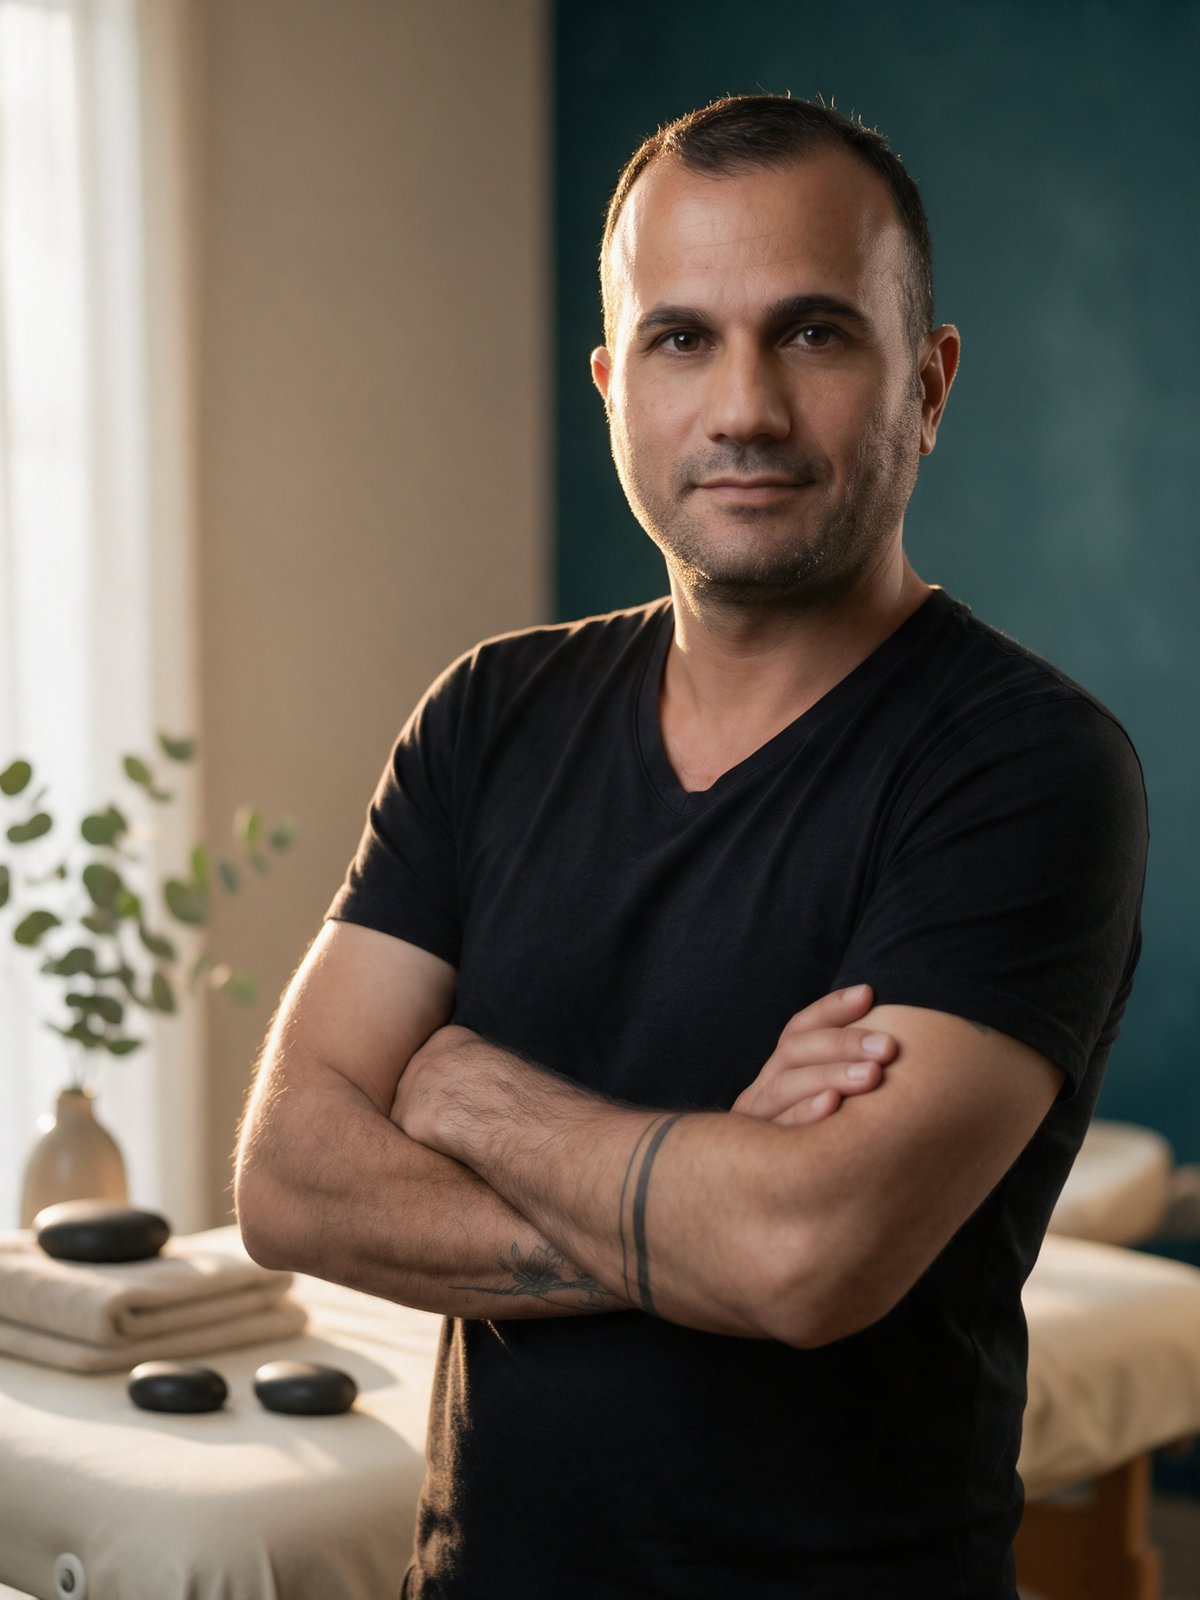
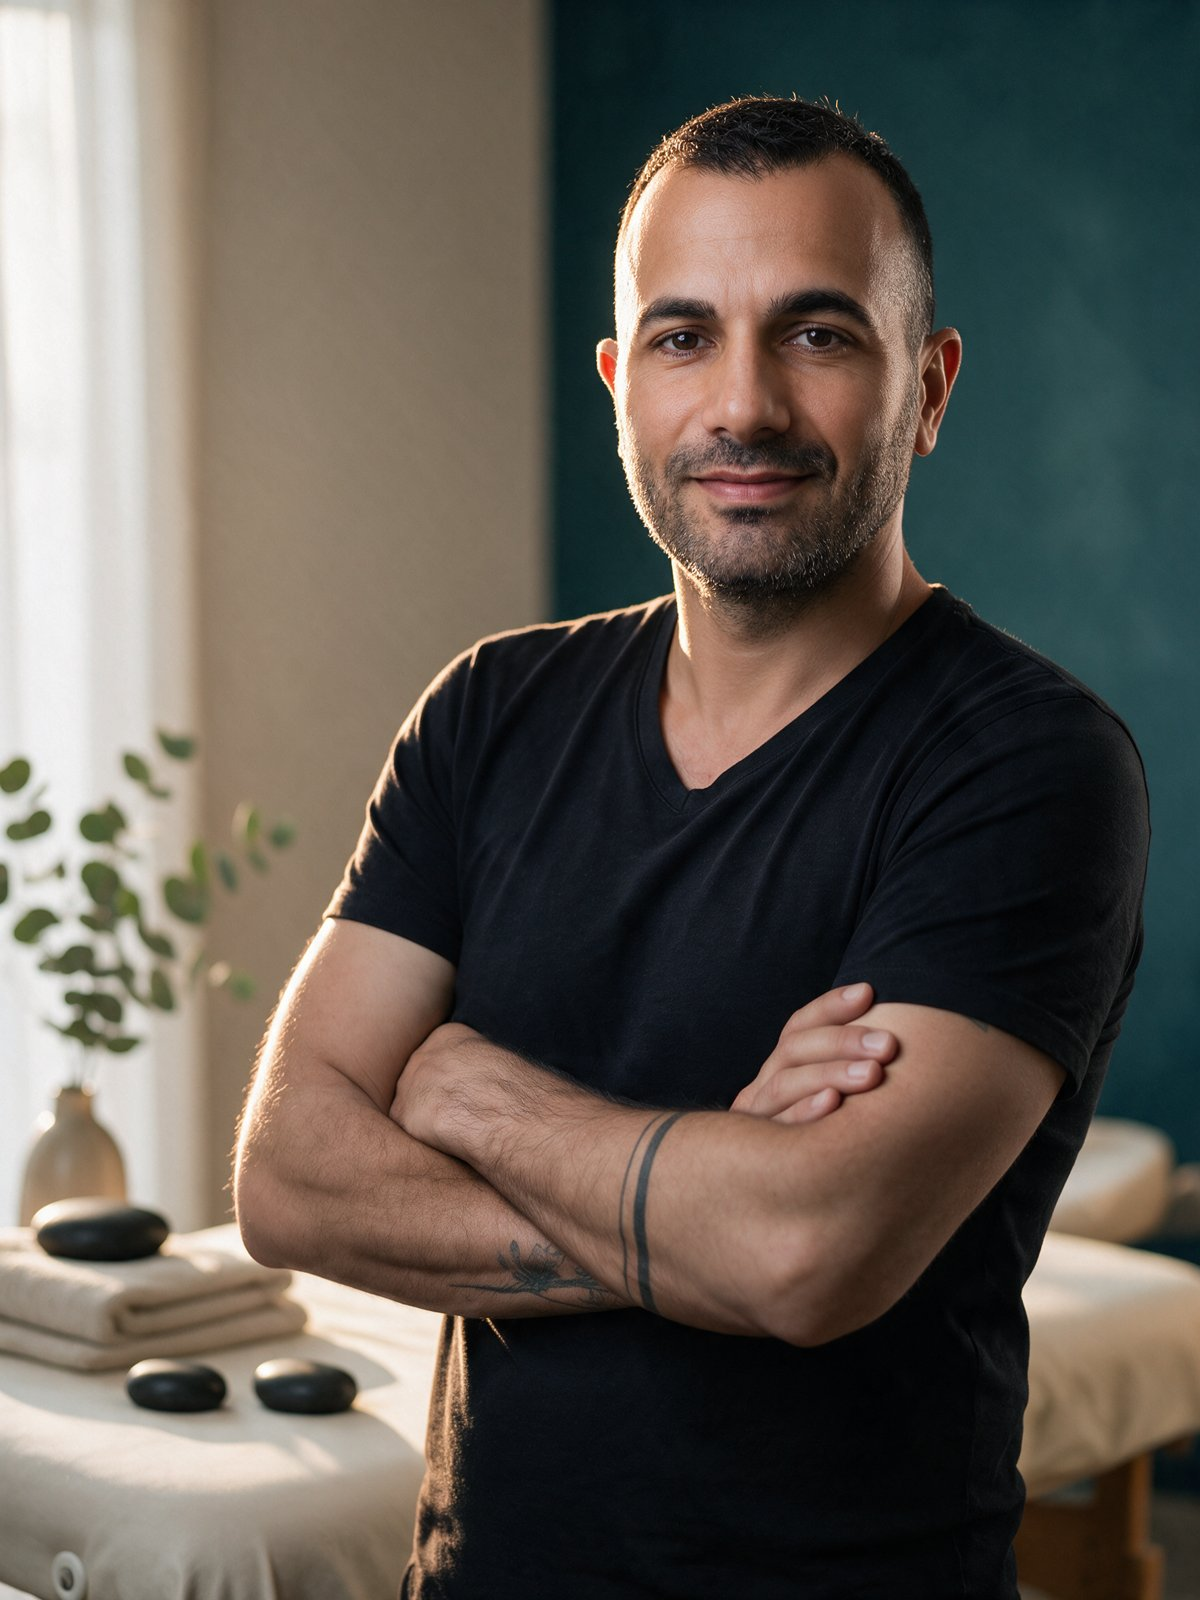
Updated portrait and social share image

diff --git a/index.html b/index.html
@@ -7,14 +7,19 @@
 <meta name="description" content="עיסוי רפואי מקצועי בירושלים עם דרור גל אמזלג, מעסה רפואי מוסמך עם למעלה מ-11 שנות ניסיון. כאבי גב וצוואר, שרירים תפוסים, מתח ושיקום. קביעת תור בוואטסאפ.">
 <meta property="og:title" content="דרור גל אמזלג — עיסוי רפואי בירושלים">
 <meta property="og:description" content="שחרור מכאבים וחזרה לשגרת חיים מלאה. טיפול ממוקד ומותאם אישית.">
-<meta property="og:image" content="img/dror.jpg">
+<meta property="og:image" content="https://drorrosh-hue.github.io/img/og.jpg">
+<meta property="og:image:width" content="1200">
+<meta property="og:image:height" content="630">
+<meta property="og:url" content="https://drorrosh-hue.github.io/">
+<meta property="og:type" content="website">
+<meta name="twitter:card" content="summary_large_image">
 <meta property="og:locale" content="he_IL">
 <meta name="theme-color" content="#143a3b">
 <link rel="icon" href="img/favicon.png">
 <link rel="stylesheet" href="css/fonts.css">
 <link rel="stylesheet" href="css/style.css">
 <script type="application/ld+json">
-{"@context":"https://schema.org","@type":"HealthAndBeautyBusiness","name":"דרור גל אמזלג — מעסה רפואי","image":"img/dror.jpg","telephone":"+972532405999","address":{"@type":"PostalAddress","streetAddress":"שבתאי הנגבי 71","addressLocality":"ירושלים","addressCountry":"IL"},"openingHoursSpecification":[{"@type":"OpeningHoursSpecification","dayOfWeek":["Sunday","Monday","Tuesday","Wednesday","Thursday"],"opens":"08:00","closes":"16:00"},{"@type":"OpeningHoursSpecification","dayOfWeek":"Friday","opens":"08:00","closes":"13:00"}],"sameAs":["https://www.instagram.com/dror_amzaleg/","https://www.tiktok.com/@droramzaleg","https://www.facebook.com/profile.php?id=61556467995474"]}
+{"@context":"https://schema.org","@type":"HealthAndBeautyBusiness","name":"דרור גל אמזלג — מעסה רפואי","image":"https://drorrosh-hue.github.io/img/dror.jpg","url":"https://drorrosh-hue.github.io/","telephone":"+972532405999","address":{"@type":"PostalAddress","streetAddress":"שבתאי הנגבי 71","addressLocality":"ירושלים","addressCountry":"IL"},"openingHoursSpecification":[{"@type":"OpeningHoursSpecification","dayOfWeek":["Sunday","Monday","Tuesday","Wednesday","Thursday"],"opens":"08:00","closes":"16:00"},{"@type":"OpeningHoursSpecification","dayOfWeek":"Friday","opens":"08:00","closes":"13:00"}],"sameAs":["https://www.instagram.com/dror_amzaleg/","https://www.tiktok.com/@droramzaleg","https://www.facebook.com/profile.php?id=61556467995474"]}
 </script>
 </head>
 <body>
